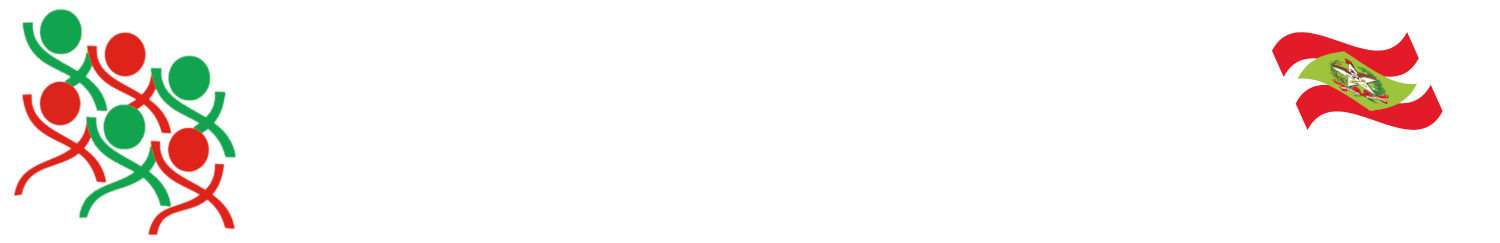
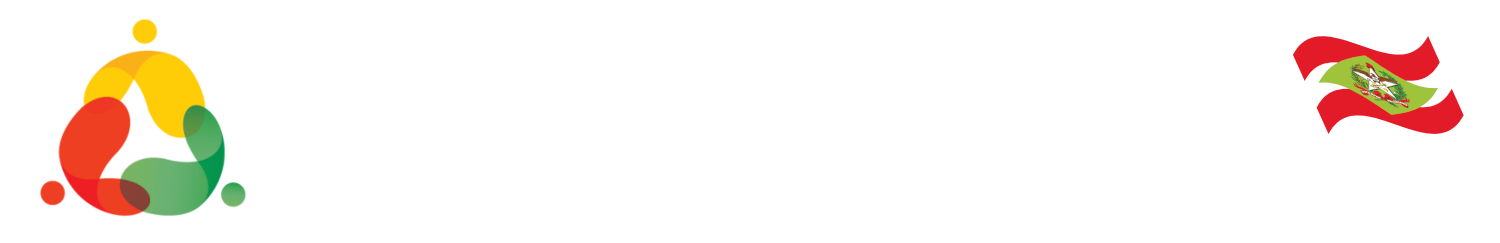
update

Changed region(s): [[0.0, 0.0288, 0.184, 0.9794], [0.828, 0.1152, 0.9813, 0.5473]]

diff --git a/index.html b/index.html
@@ -43,7 +43,7 @@
     <nav class="navbar navbar-expand-lg navbar-dark">
       <a class="navbar-brand" href="https://www.sc.gov.br/reformadaprevidencia">
         <div class="cabecalho">REFORMA DA<BR>PREVIDÊNCIA</div>
-        <img src="img/sc_logo_branco.png" class="mobi" width="120">
+        <img src="img/sc_logo_branco.png" class="mobi" width="130">
         </a><button class="navbar-toggler" type="button" data-toggle="collapse" data-target="#navbarNavAltMarkup" aria-controls="navbarNavAltMarkup" aria-expanded="false" aria-label="Toggle navigation">
         <span class="navbar-toggler-icon"></span>
       </button>
@@ -51,18 +51,16 @@
         <div class="navbar-nav menusuperior">
           <a class="nav-item nav-link" href="https://www.sc.gov.br/reformadaprevidencia">Início</span></a>
           <a class="nav-item nav-link" href="#quantocusta">Quanto custa?</span></a>
-          <a class="nav-item nav-link" href="#despesas">Despesas do Estado</a>
-          <a class="nav-item nav-link" href="#download">Baixe os projetos</a>
+          <a class="nav-item nav-link" href="#download">Projetos</a>
           <a class="nav-item nav-link" href="#tiraduvidas">Tire suas dúvidas</a>
 
         </div>
       </div>
-      <div class="logo-sc desktop"><a href="https://www.sc.gov.br"><img src="img/sc_logo_branco.png" width="180"></a></div>
+      <div class="logo-sc desktop"><a href="https://www.sc.gov.br"><img src="img/iprev_govsc_topo.png" width="380"></a></div>
 
     </nav>
 <main>
   <div class="container px-4 py-5" id="hanging-icons">
-
     <div class="row g-4 py-5 row-cols-1 row-cols-lg-2">
       <div class="col d-flex align-items-start">
         <div>
@@ -70,7 +68,7 @@
             <i class="bi-question-lg" style="font-size: 1.3em;"></i>
           </div>
           <h2>O que é?</h2>
-          <p class="lead">A Reforma Previdenciária do Estado de Santa Catarina é um conjunto de alterações propostas no sistema de seguridade social do quadro civil de servidores públicos estaduais a fim de garantir a sustentabilidade do sistema para o futuro. Não se trata de um projeto de governo, mas de Estado.</p>
+          <p class="lead">A Reforma Previdenciária do Estado de Santa Catarina é um conjunto de alterações legislativas propostas no sistema de seguridade social do quadro civil de servidores públicos estaduais a fim de promover a sustentabilidade do sistema para o futuro. Não se trata de um projeto de governo, mas de Estado.</p>
         </div>
       </div>
       <div class="col d-flex align-items-start">
@@ -88,7 +86,10 @@
             <i class="bi-bar-chart-line" style="font-size: 1.1em;"></i>
           </div>
           <h2>Para quê?</h2>
-          <p class="lead">A Reforma da Previdência tem por objetivo garantir a sustentabilidade da seguridade social dos aposentados e pensionistas, bem como dos atuais e futuros servidores, e evitar que um volume crescente dos impostos pagos pelos cidadãos precise ser destinado à cobertura do deficit previdenciário do Estado.</p>
+          <p class="lead">A Reforma da Previdência tem por objetivos:
+            <ul>
+              <li class="lead">Adequar as regras de concessão de benefícios previdenciários ao aumento da expectativa de vida, às relações trabalhistas e à capacidade financeira do Estado de honrar os pagamentos de benefícios previdenciários; </li><br>
+              <li class="lead">Permitir investimentos com os recursos gerados com a economia propiciada pela reforma.</li></ul></p>
         </div>
       </div>
       <div class="col d-flex align-items-start">
@@ -97,7 +98,7 @@
             <i class="bi-person-badge" style="font-size: 1.1em;"></i>
           </div>
           <h2>Quem?</h2>
-          <p class="lead">A Reforma da Previdência abrange todos os servidores estaduais que integram o Regime Próprio de Previdência do Estado de Santa Catarina, incluindo o Poder Executivo, Poder Legislativo, Poder Judiciário, Tribunal de Contas do Estado e Ministério Público de Santa Catarina. Não há mudanças nas regras para trabalhadores da iniciativa privada.</p>
+          <p class="lead">A Reforma da Previdência abrange todos os servidores estaduais que integram o Regime Próprio de Previdência do Estado de Santa Catarina, incluindo o Poder Executivo, Poder Legislativo, Poder Judiciário, Tribunal de Contas do Estado e Ministério Público de Santa Catarina. Os militares não integram o projeto em razão da Lei Federal número 13.954/2019, que implantou o chamado regime de proteção social dos militares, desvinculando esta categoria do Regime Próprio de Previdência Social. Não há mudanças nas regras para trabalhadores da iniciativa privada.</p>
         </div>
       </div>
       <div class="col d-flex align-items-start" style="width:100%;">
@@ -145,7 +146,7 @@ essenciais todos os meses.</p>
       <div class="col d-flex align-items-start">
         <div>
           <h2>Quanto o deficit da Previdência do Estado custa para você?</h2>
-          <p class="lead">A maior parte da Previdência de mais de 60 mil servidores inativos é custeada por todos os catarinenses. <b>Cada cidadão paga, em média, R$ 677 por ano</b> em impostos apenas para cobrir o deficit da Previdência criado ao longo das últimas décadas, sem considerar a contribuição patronal do Estado. É dinheiro que deixa de ir para a saúde, segurança, infraestrutura e segurança.</p>
+          <p class="lead">A maior parte da Previdência dos servidores aposentados e pensionistas é custeada por todos os catarinenses. Cada cidadão paga, em média, R$ 965 por ano em impostos apenas para o regime de Previdência estadual. É dinheiro que deixa de ir para a saúde, segurança, infraestrutura e segurança.</p>
         </div>
       </div>
       <div class="col d-flex align-items-start">
@@ -164,7 +165,7 @@ essenciais todos os meses.</p>
     <h2 class="pb-2 border-bottom" style="text-align:center;">Despesas do Estado de Santa Catarina</h2>
     <div class="row g-4 py-5 row-cols-1 row-cols-lg-3" style="text-align:center;">
       <div style="width:100%;"><p class="lead dinheiros">
-        Em 2019, a Previdência do Estado de Santa Catarina consumiu R$ 6,82 bilhões, nove vezes mais do que os recursos destinados à Infraestrutura, dez vezes mais do que o orçamento da Agricultura. A cada R$ 1 pago de ICMS pelos catarinenses, R$ 0,48 são destinados somente para o pagamento de benefícios previdenciários.<br>
+        Em 2019, a Previdência do Estado de Santa Catarina consumiu R$ 6,82 bilhões, nove vezes mais do que os recursos destinados à Infraestrutura, dez vezes mais do que o orçamento da Agricultura. A cada R$ 1 pago de ICMS líquido pelos catarinenses, R$ 0,48 são destinados somente para o pagamento de benefícios previdenciários.<br>
       </div>
       <div class="feature col">
         <i class="bi-bank2 previdencia" style="font-size: 2.5em;"></i>
@@ -300,7 +301,7 @@ essenciais todos os meses.</p>
       </h2>
       <div id="collapseFive" class="accordion-collapse collapse" aria-labelledby="headingFive">
         <div class="accordion-body">
-          Não. Somadas todas essas contribuições, não se chega a 40% das despesas com aposentadorias e pensões atuais. No futuro, a tendência é que essa insuficiência seja ainda maior, colocando em risco a sustentabilidade da Previdência dos servidores e obrigando o Estado a tirar recursos de serviços essenciais para cobrir o deficit.
+          Não. Mesmo somadas todas essas contribuições, o Tesouro do Estado ainda precisa aportar aproximadamente R$ 5 bilhões ao ano para cobrir a diferença do que se arrecada em relação ao total da despesa com os benefícios.
         </div>
       </div>
     </div>
@@ -314,7 +315,8 @@ essenciais todos os meses.</p>
       <div id="collapseSix" class="accordion-collapse collapse" aria-labelledby="headingSix">
         <div class="accordion-body">
           <p>A reforma apresentada pelo Governo Federal em 2019 incluiu as “inatividades e pensões das polícias militares e dos corpos de bombeiros militares” como objeto de competência legislativa exclusiva da União. Assim, os Estados não podem legislar sobre este tema (<a href="http://www.planalto.gov.br/ccivil_03/constituicao/Constituicao.htm#cfart22xxi.0" target="a_blank">Artigo 22, Inciso XXI da Constituição Federal</a>).</p>
-          <p>Posteriormente, a Lei Federal Nº 13.954/2019, que implantou o chamado regime de proteção social dos militares, desvinculou esta categoria do Regime Próprio de Previdência Social (RPPS).</p>
+          <p>Posteriormente, a Lei Federal Nº 13.954/2019, que implantou o chamado regime de proteção social dos militares, desvinculou esta categoria do Regime Próprio de Previdência Social (RPPS). Portanto, por força da referida legislação federal, a carreira militar está absolutamente desvinculada das demais carreiras do serviço público estadual.</p>
+          <p>Com relação às alíquotas de contribuição previdenciária, o quadro civil dos inativos, atualmente é isento da contribuição para quem recebe até R$ 6.433,57 (teto do INSS), enquanto que sobre a remuneração da categoria dos militares inativos recai a incidência de 10,5% sobre o total da folha, sem isenção alguma.</p>
         </div>
       </div>
     </div>
